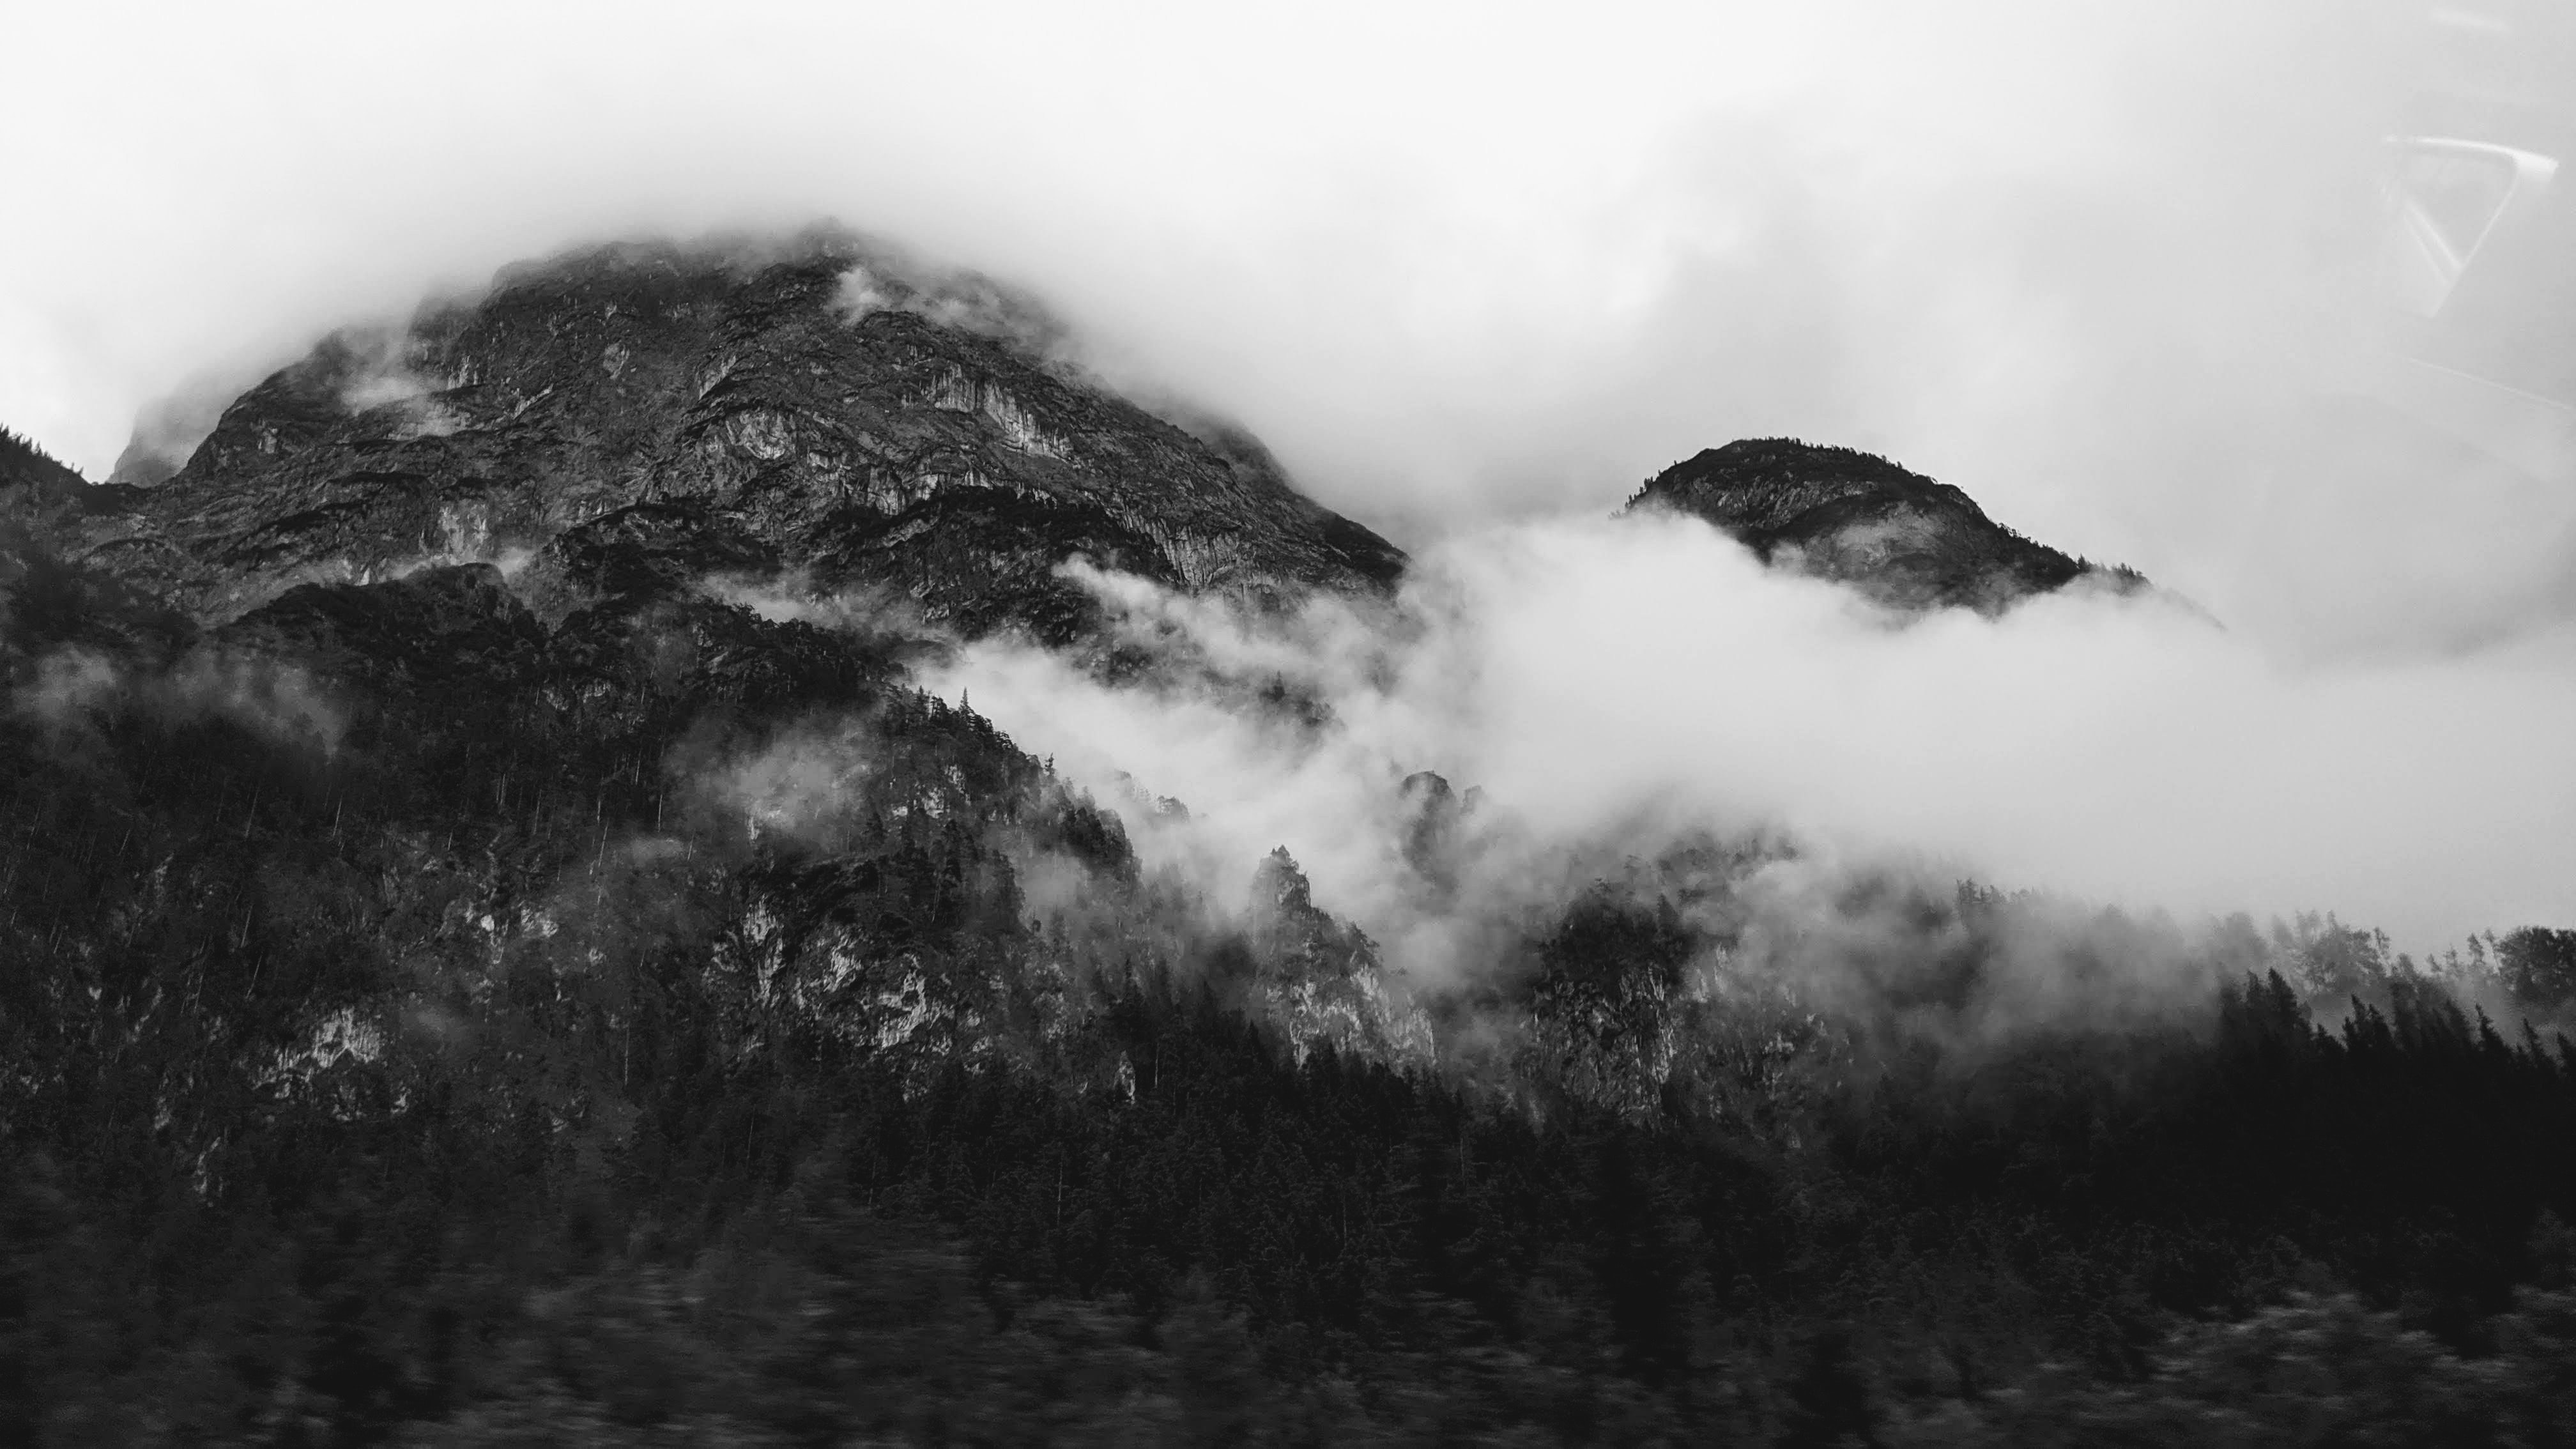
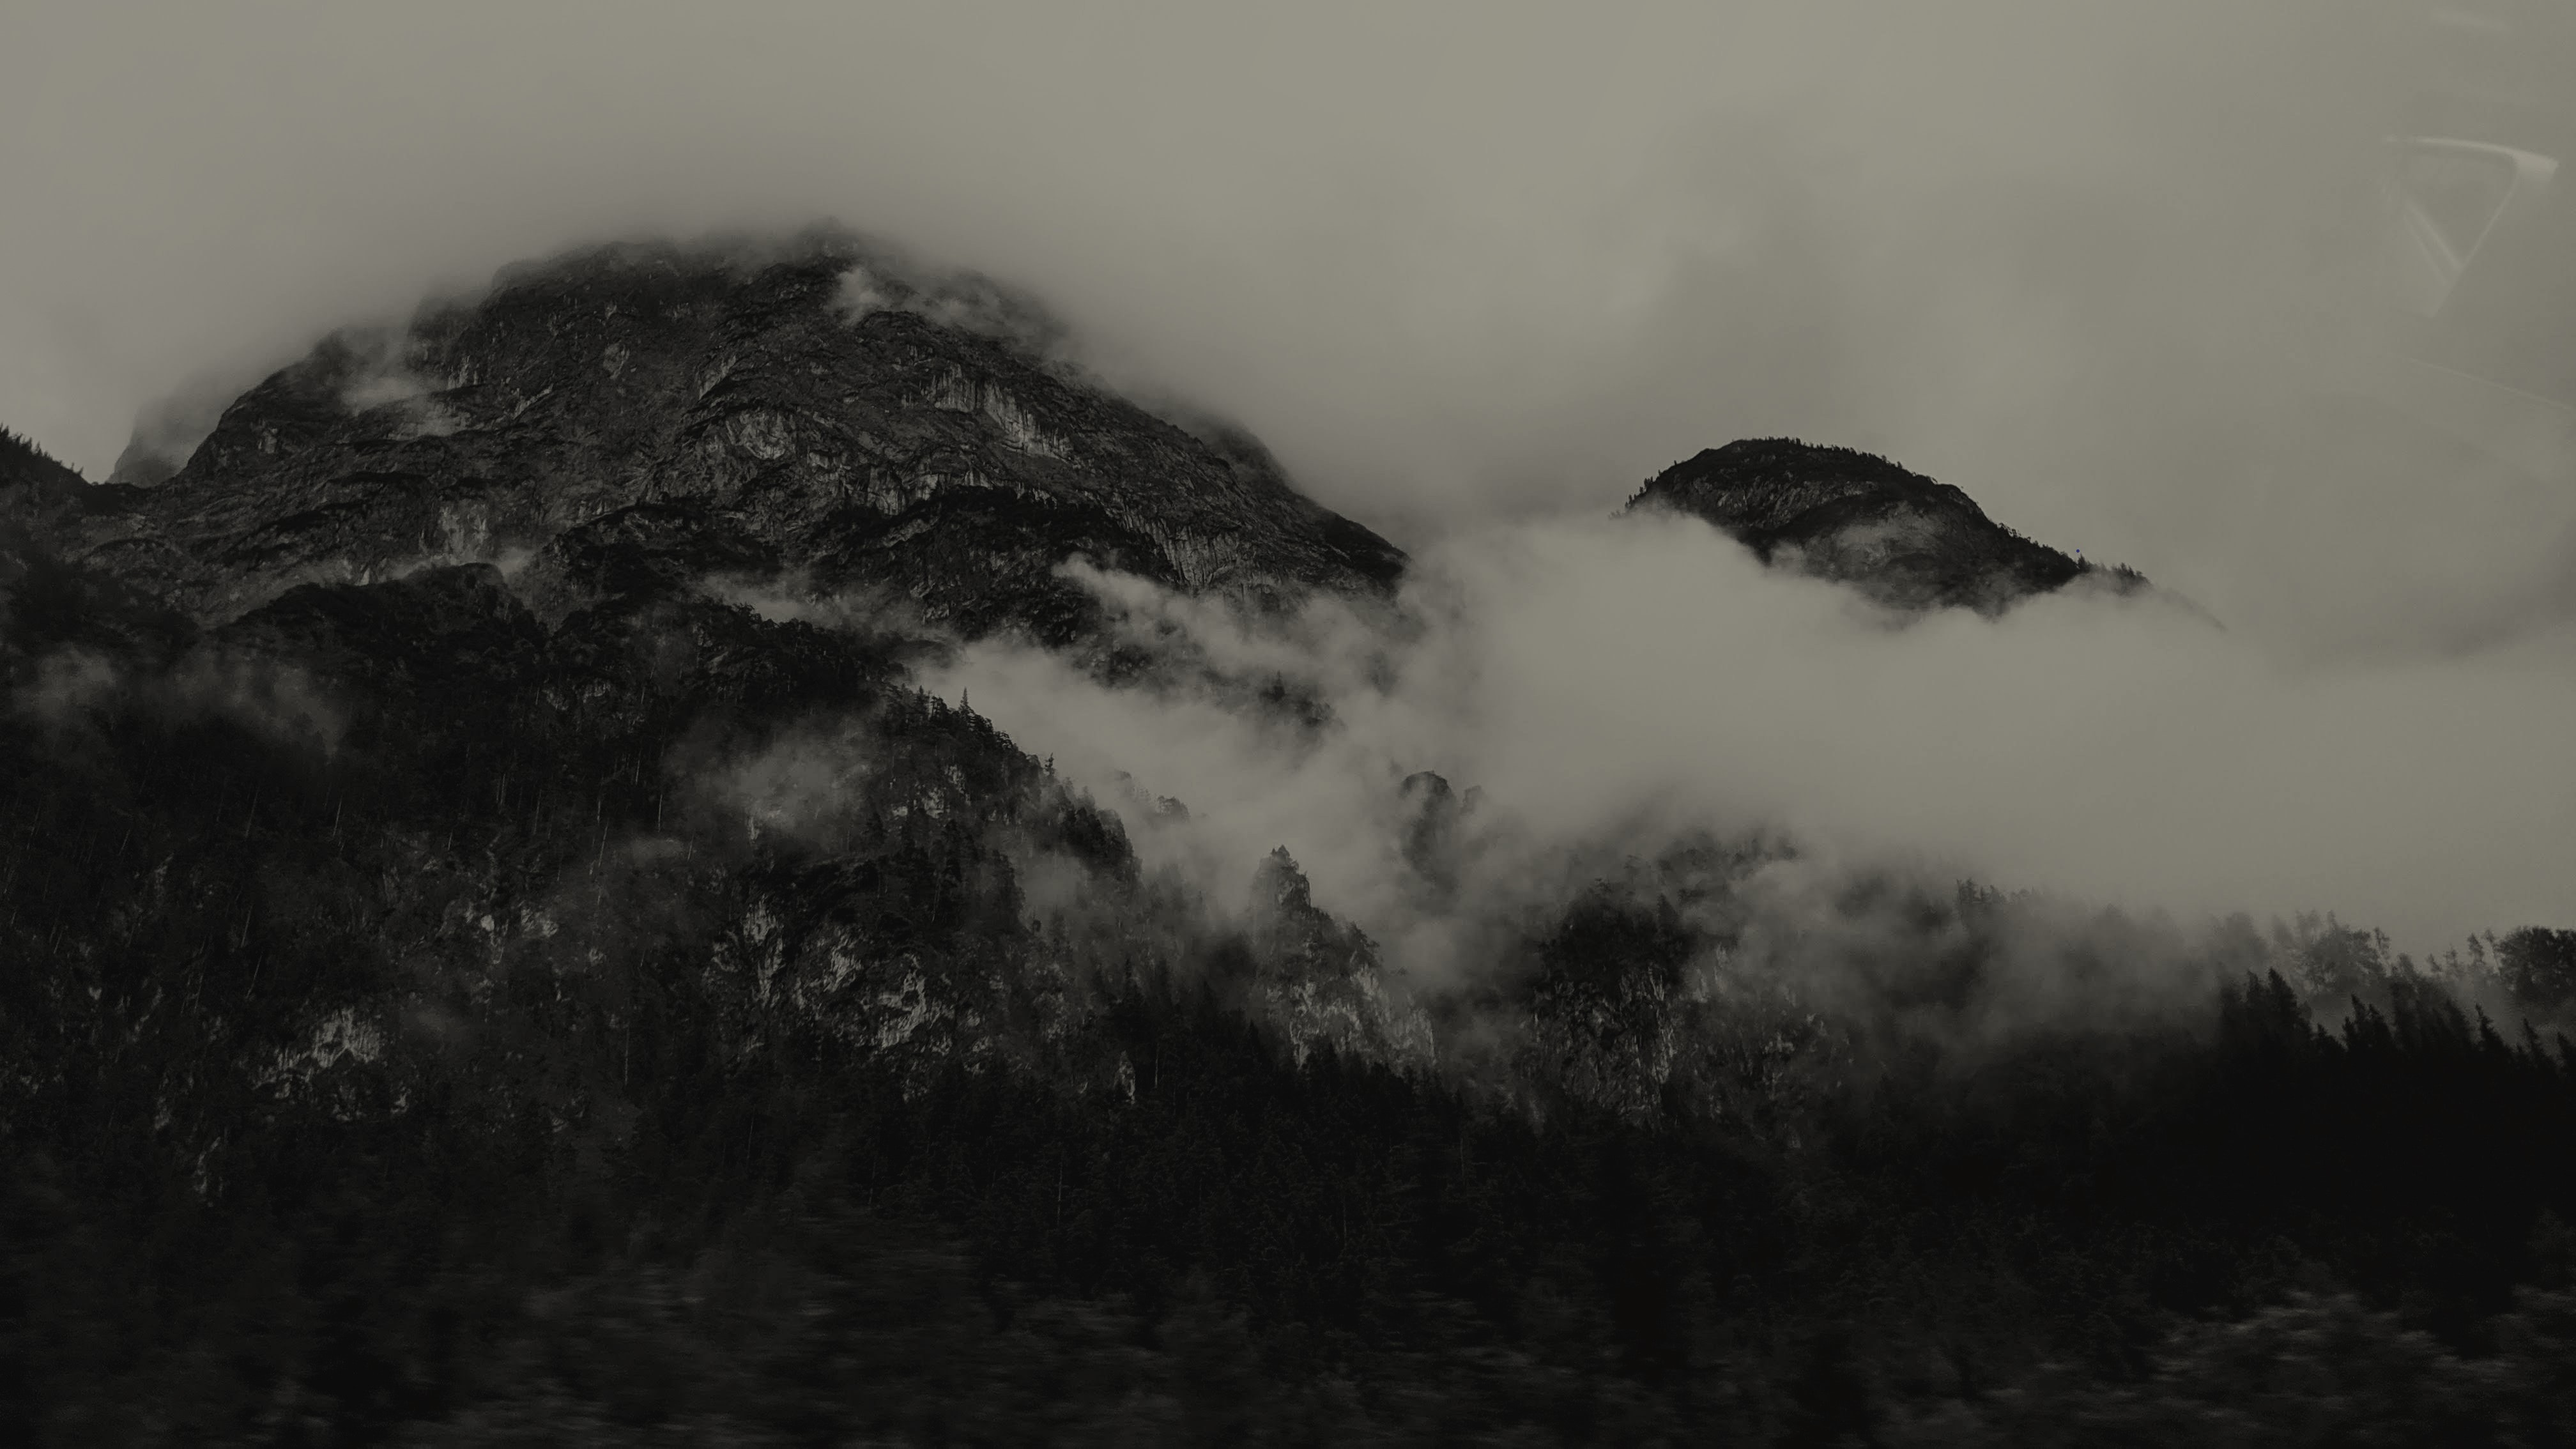
cambios

diff --git a/src/appweb/src/App.css b/src/appweb/src/App.css
@@ -15,14 +15,14 @@ body::before {
   top: 0;
   left: 0;
   width: 100%;
-  height: 100%;
   background-color: rgba(0, 0, 0, 0.5); 
+  background-size: cover;
   z-index: -1;
 }
 
 body {
-  background-image: url("../public/Background.jpg");
   background-size: cover;
+  background-image: url("../public/Background.jpg");
 }
 
 .Contenedor-Principal {
@@ -152,6 +152,10 @@ nav button {
   margin: 0 4.5px;
 }
 
+.Contenedor-Banner h3{
+  font-size: 30px;
+}
+
 .PagPrincipalInformación{
   height: 550px;
   background-color: rgba(0, 0, 0, 0.6);
@@ -198,4 +202,160 @@ nav button {
   transition: background-color 0.3s ease;
   width: 100%;
   height: 100%;
+}
+
+.texto_predicciones {
+  text-align: center;
+  font-family: "Jost", sans-serif;
+}
+
+.texto_predicciones h2 {
+  color: white;
+  font-size: 30px;
+}
+
+.texto_predicciones input[type="file"] {
+  margin-bottom: 15px;
+  color: white;
+  font-family: "Jost", sans-serif;
+  font-size: 15px;
+}
+
+.texto_predicciones input::file-selector-button {
+  margin-left: 20px;
+  display: inline-block;
+  padding: 5px 10px;
+  font-size: 14px;
+  font-weight: bold;
+  text-transform: uppercase;
+  text-decoration: none;
+  border-radius: 5px;
+  color: #ffffff;
+  background-color: #00000000;
+  border: 2px solid #ffffff;
+  cursor: pointer;
+  transition: background-color 0.3s, border-color 0.3s, color 0.3s;
+  font-family: "Jost", sans-serif;
+}
+
+.texto_predicciones input::file-selector-button:hover {
+  background-color: #00000070;
+}
+
+.texto_predicciones input::file-selector-button:focus {
+  outline: none;
+  box-shadow: 0px 0px 10px rgba(0, 0, 0, 0.5);
+}
+
+.texto_predicciones button {
+  margin-left: 20px;
+  display: inline-block;
+  padding: 5px 10px;
+  font-size: 14px;
+  font-weight: bold;
+  text-transform: uppercase;
+  text-decoration: none;
+  border-radius: 5px;
+  color: #ffffff;
+  background-color: #00000000;
+  border: 2px solid #ffffff;
+  cursor: pointer;
+  transition: background-color 0.3s, border-color 0.3s, color 0.3s;
+  font-family: "Jost", sans-serif;
+}
+
+.texto_predicciones button:hover {
+  background-color: #00000070;
+}
+
+.texto_predicciones button:focus {
+  outline: none;
+  background-color: #00000070;
+  box-shadow: 0px 0px 10px rgba(0, 0, 0, 0.5);
+}
+
+.texto_predicciones h2:last-child {
+  /* Estilo para el estado de carga */
+  margin-top: 15px;
+  font-size: 18px;
+  color: #ffffff;
+}
+
+
+
+
+.reviews_title h3 {
+  text-align: center;
+}
+
+.review-list {
+  list-style-type: none;
+  margin-left: 10%;
+  margin-right: 10%;
+  background-color: rgba(0, 0, 0, 0.6);
+  border: 2px solid #ffffff;
+  border-radius: 30px;
+  padding: 0;
+  font-family: "Jost", sans-serif;
+}
+
+.review-item2 {
+  display: grid;
+  grid-template-columns: 4fr 1fr;
+  padding: 10px 25px;
+  border-bottom: 1px solid #ccc;
+  text-align: center;
+  background-color: rgba(0, 0, 0, 0.8);
+  border-top-left-radius: 30px;
+  border-top-right-radius: 30px;
+  font-size: 20px;
+  font-family: "Jost", sans-serif;
+}
+
+.review-item {
+  display: grid;
+  grid-template-columns: 4fr 1fr;
+  padding: 10px 25px;
+  border-bottom: 1px solid #ccc;
+}
+
+.review-text, .review-prediction {
+  /* Estilo para las columnas de reseña y predicción */
+  padding: 5px;
+  color: white;
+  font-family: "Jost", sans-serif;
+}
+
+.pagination {
+  /* Estilo para la sección de paginación */
+  text-align: center;
+  margin-top: 20px;
+  margin-top: 30px;
+  margin-bottom: 70px;
+}
+
+/* Estilo para los botones de paginación */
+.pagination button {
+  /* Estilos generales de los botones de paginación */
+  margin: 0 5px;
+  padding: 5px 10px;
+  border: none;
+  background-color: #6c80ff7c;
+  color: white;
+  cursor: pointer;
+  border-radius: 10px;
+  font-size: 15px;
+  font-family: "Jost", sans-serif;
+}
+
+.pagination button:hover {
+  /* Estilo para los botones de paginación al pasar el cursor */
+  background-color: #6c80ff;
+}
+
+.pagination button.active {
+  /* Estilo para el botón activo (página actual) */
+  background-color: #0015d16a;
+  color: white;
+  font-weight: bold;
 }

diff --git a/src/appweb/src/Reviews.js b/src/appweb/src/Reviews.js
@@ -1,0 +1,76 @@
+import React, { useState } from 'react';
+
+function Reviews({ results }) {
+    // Estados para manejar la paginación
+    const [currentPage, setCurrentPage] = useState(1);
+    const reviewsPerPage = 5;
+    const maxPageButtons = 5;
+
+    // Calcular el índice inicial y final de las reseñas para la página actual
+    const indexOfLastReview = currentPage * reviewsPerPage;
+    const indexOfFirstReview = indexOfLastReview - reviewsPerPage;
+    const currentReviews = results.slice(indexOfFirstReview, indexOfLastReview);
+
+    // Calcular el número total de páginas
+    const totalPages = Math.ceil(results.length / reviewsPerPage);
+
+    // Función para manejar el cambio de página
+    const paginate = (pageNumber) => setCurrentPage(pageNumber);
+
+    // Calcular los botones de paginación a mostrar
+    const getPaginationButtons = () => {
+        const buttons = [];
+        let startPage = Math.max(1, currentPage - Math.floor(maxPageButtons / 2));
+        let endPage = Math.min(totalPages, startPage + maxPageButtons - 1);
+        
+        // Ajustar el rango de botones si es necesario
+        if (endPage - startPage + 1 < maxPageButtons) {
+            startPage = Math.max(1, endPage - maxPageButtons + 1);
+        }
+        
+        for (let i = startPage; i <= endPage; i++) {
+            buttons.push(i);
+        }
+
+        return buttons;
+    };
+
+    return (
+        <div className='reviews_title'>
+            <h3>Resultados:</h3>
+            <ul className="review-list">
+                <li className="review-item2">
+                    <div className="review-text"><strong>Review</strong></div>
+                    <div className="review-prediction"><strong>Clasificación</strong></div>
+                </li>
+                {currentReviews.map((result, index) => (
+                    <li key={index} className="review-item">
+                        <div className="review-text">{result.review}</div>
+                        <div className="review-prediction">{result.prediction}</div>
+                    </li>
+                ))}
+            </ul>
+
+            {/* Paginación */}
+            <div className="pagination">
+                {currentPage > 1 && (
+                    <button onClick={() => paginate(currentPage - 1)}>Anterior</button>
+                )}
+                {getPaginationButtons().map((page) => (
+                    <button
+                        key={page}
+                        onClick={() => paginate(page)}
+                        className={currentPage === page ? 'active' : ''}
+                    >
+                        {page}
+                    </button>
+                ))}
+                {currentPage < totalPages && (
+                    <button onClick={() => paginate(currentPage + 1)}>Siguiente</button>
+                )}
+            </div>
+        </div>
+    );
+}
+
+export default Reviews;

diff --git a/src/appweb/src/Predicciones.js b/src/appweb/src/Predicciones.js
@@ -1,6 +1,7 @@
 import React, { useState } from 'react';
 import axios from 'axios';
 import { useNavigate } from "react-router-dom";
+import Reviews from './Reviews';
 
 function Predicciones() {
 
@@ -70,23 +71,15 @@ function Predicciones() {
                 <button onClick={() => navigate('predecir')}>Predicción</button>
                 <button onClick={() => navigate('csv')}>Predicciones</button>
             </nav>
-            <h2>Predicciones para múltiples revisiones</h2>
-            <input type="file" accept=".csv" onChange={handleFileChange} />
-            <button onClick={() => {handleFileUpload(); cambiarCargando();}}>Enviar archivo</button>
-            <h2>{cargando}</h2>
-            {/* Mostrar revisiones y predicciones */}
+            <div className="texto_predicciones">
+                <h2>Calcular Nivel de Satisfacción</h2>
+                <input type="file" accept=".csv" onChange={handleFileChange} />
+                <button onClick={() => {handleFileUpload(); cambiarCargando();}}>Enviar archivo</button>
+                <h2>{cargando}</h2>
+            </div>
+
             {results.length > 0 && (
-                <div>
-                    <h3>Resultados:</h3>
-                    <ul>
-                        {results.map((result, index) => (
-                            <li key={index}>
-                                <strong>Revisión:</strong> {result.review}<br />
-                                <strong>Predicción:</strong> {result.prediction}
-                            </li>
-                        ))}
-                    </ul>
-                </div>
+                <Reviews results={results} />
             )}
         </div>
     );
